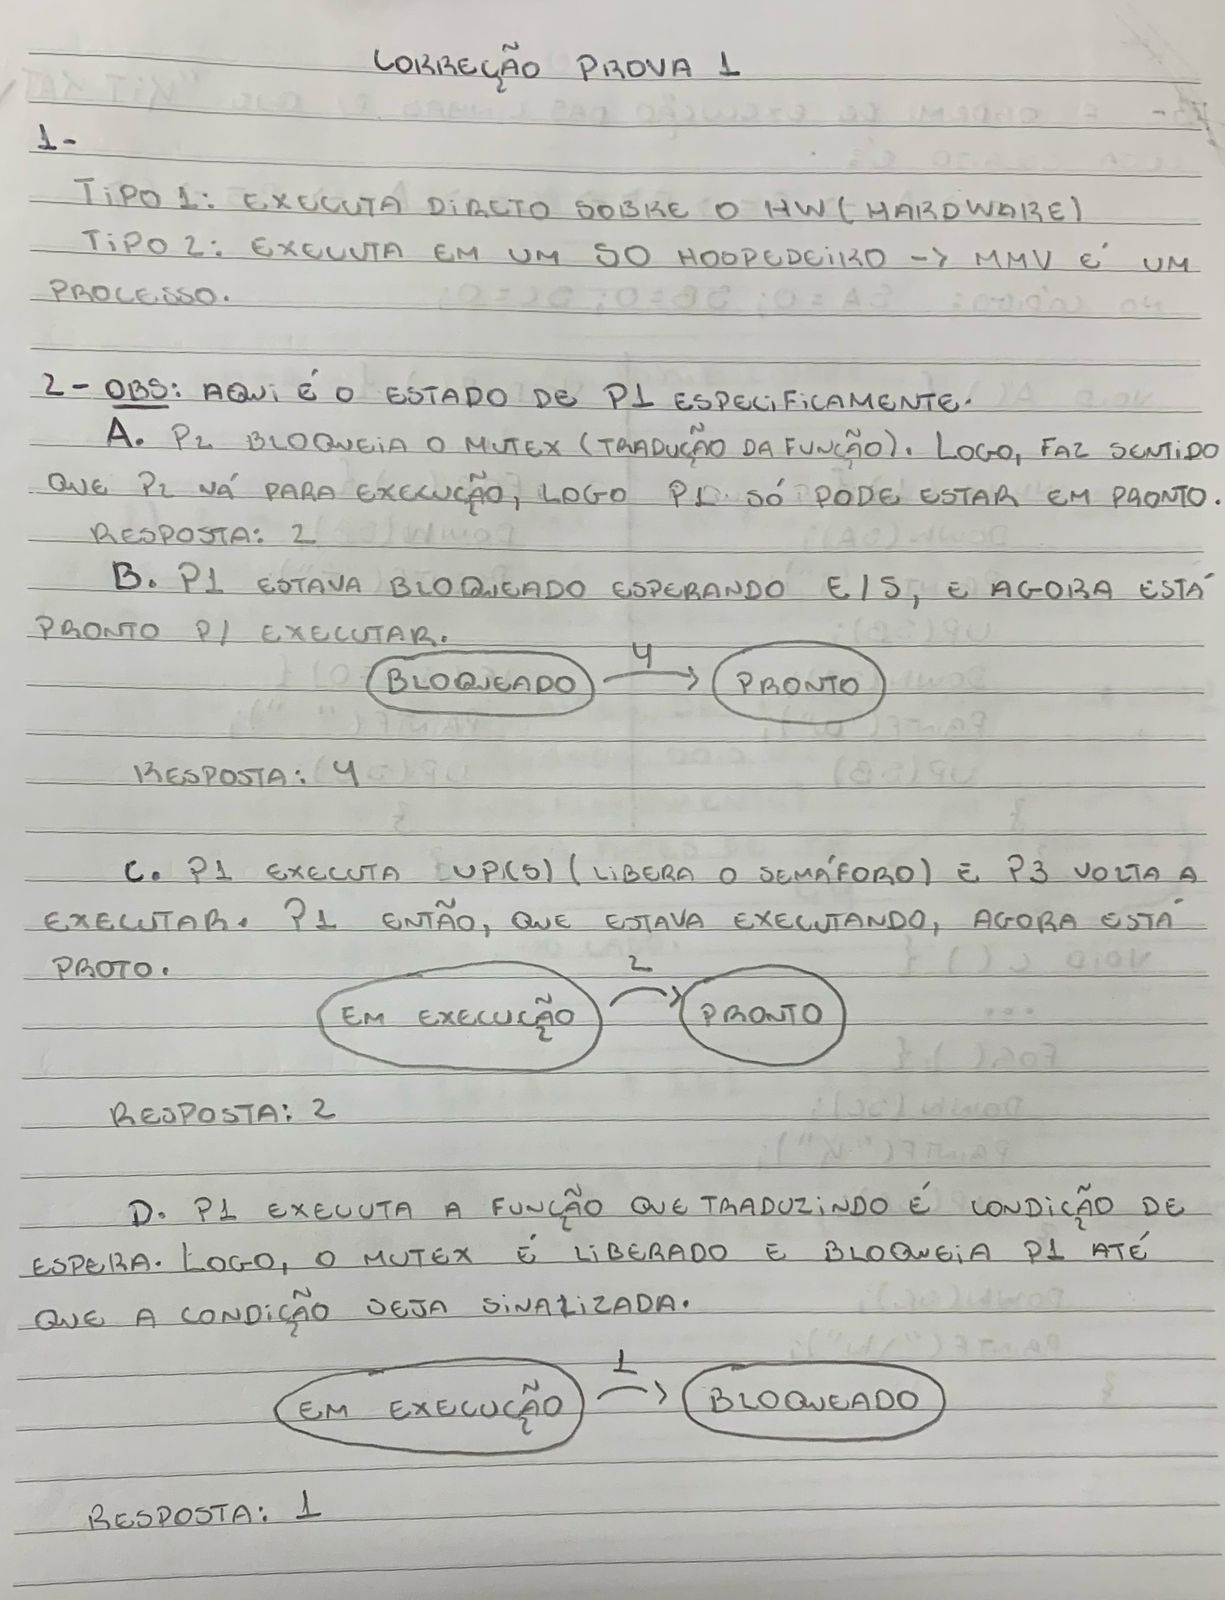
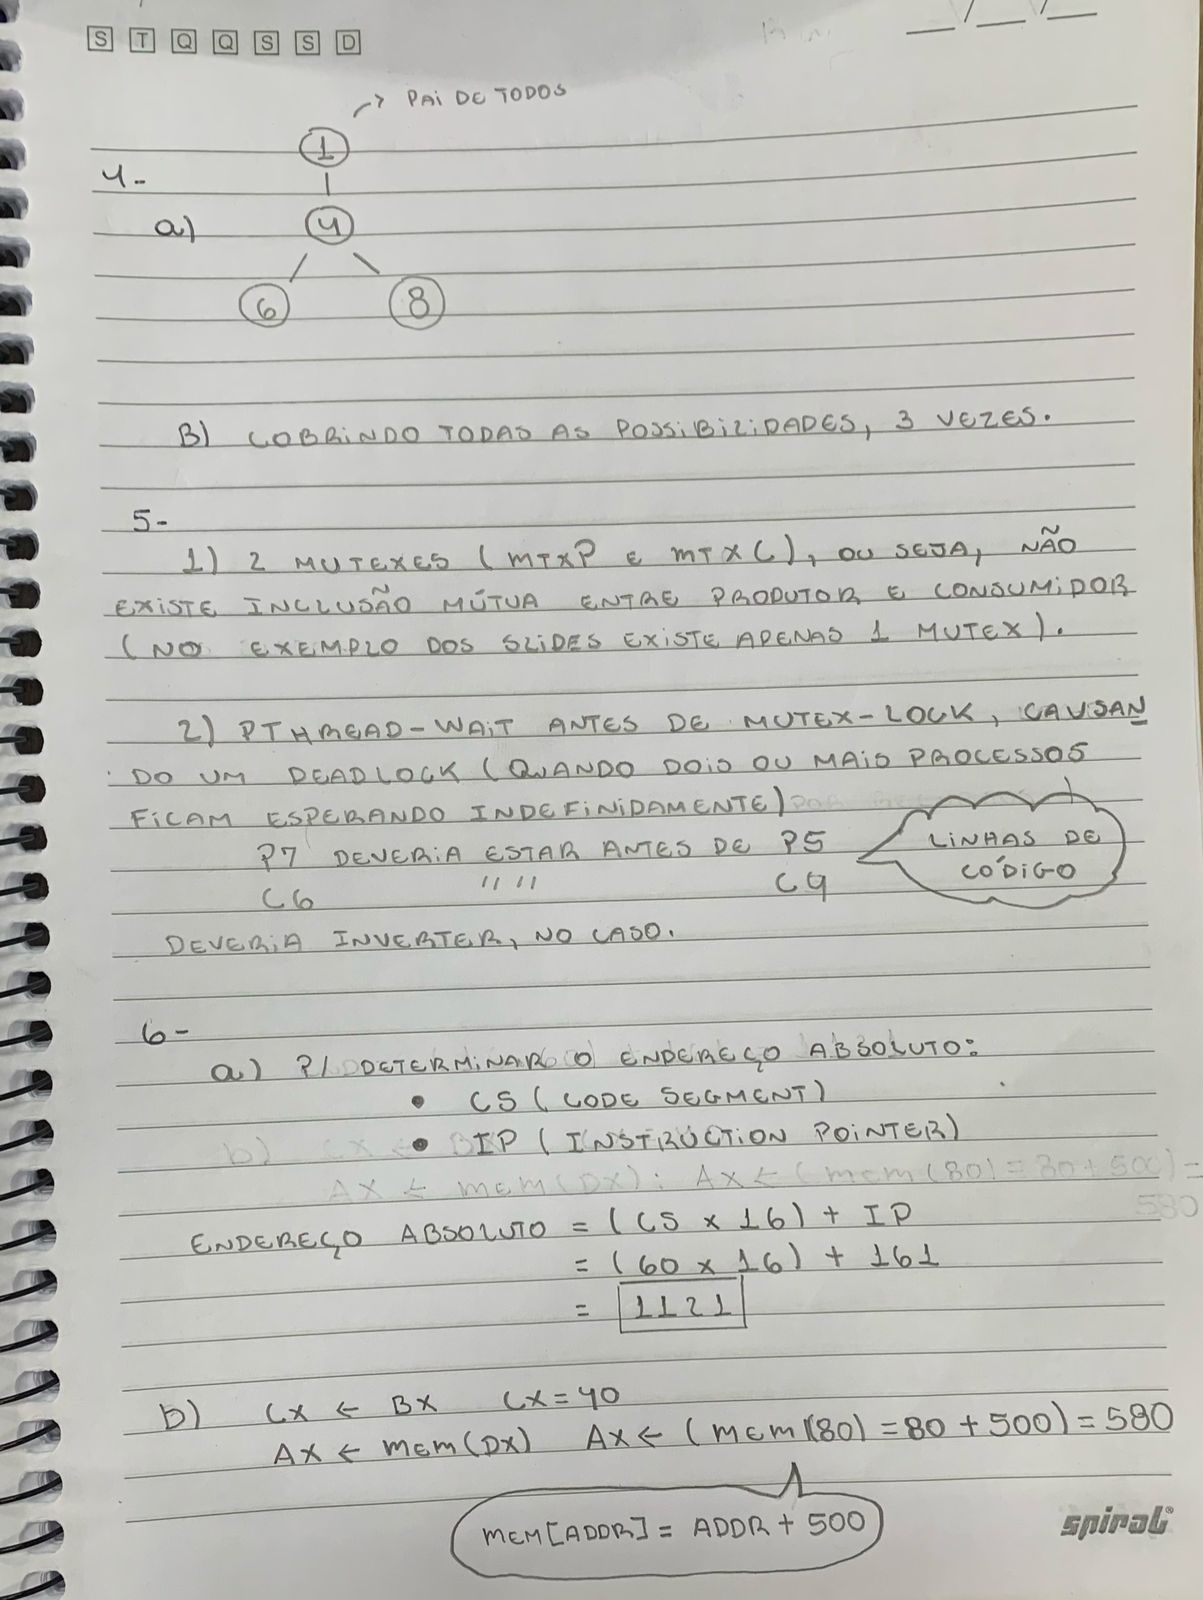
provas sop

Changed region(s): [[0.0, 0.0, 1.0, 1.0], [0.8612, 0.9375, 1.0, 1.0], [0.123, 0.875, 0.1845, 0.9062]]

diff --git a/SOP - Sistemas Operacionais/Diário de classe/pthreads/semafororo-prova1Q3.c b/SOP - Sistemas Operacionais/Diário de classe/pthreads/semafororo-prova1Q3.c
@@ -1,0 +1,73 @@
+#include <stdio.h>
+#include <pthread.h>
+#include <semaphore.h>
+#include <unistd.h>
+
+// Define aliases para ficar mais legível
+#define down(s) sem_wait(&s)
+#define up(s)   sem_post(&s)
+
+// Semáforos
+sem_t sem_R_done;
+sem_t sem_Y_done;
+sem_t sem_Lock;
+
+// Thread que faz a leitura (R)
+void* thread_R(void* arg) {
+    printf("Thread R: realizando leitura...\n");
+    sleep(1); // simula tempo de leitura
+    printf("Thread R: leitura concluída.\n");
+    up(sem_R_done);  // Sinaliza que a leitura foi feita
+    return NULL;
+}
+
+// Thread que espera uma condição (Y)
+void* thread_Y(void* arg) {
+    printf("Thread Y: aguardando condição externa...\n");
+    sleep(2); // simula tempo de espera
+    printf("Thread Y: condição satisfeita.\n");
+    up(sem_Y_done);  // Sinaliza que a condição foi satisfeita
+    return NULL;
+}
+
+// Thread que realiza ação crítica (L), mas só depois de R e Y
+void* thread_L(void* arg) {
+    printf("Thread L: aguardando leitura (R) e condição (Y)...\n");
+
+    down(sem_R_done);  // Espera a leitura
+    down(sem_Y_done);  // Espera a condição
+
+    down(sem_Lock);    // Entra na seção crítica
+    printf("Thread L: executando ação crítica (L)...\n");
+    sleep(2);          // Simula trabalho
+    printf("Thread L: ação crítica finalizada.\n");
+    up(sem_Lock);      // Sai da seção crítica
+
+    return NULL;
+}
+
+int main() {
+    pthread_t tR, tY, tL;
+
+    // Inicializa os semáforos
+    sem_init(&sem_R_done, 0, 0);
+    sem_init(&sem_Y_done, 0, 0);
+    sem_init(&sem_Lock,    0, 1);  // Lock começa liberado
+
+    // Cria as threads
+    pthread_create(&tR, NULL, thread_R, NULL);
+    pthread_create(&tY, NULL, thread_Y, NULL);
+    pthread_create(&tL, NULL, thread_L, NULL);
+
+    // Aguarda término das threads
+    pthread_join(tR, NULL);
+    pthread_join(tY, NULL);
+    pthread_join(tL, NULL);
+
+    // Destrói os semáforos
+    sem_destroy(&sem_R_done);
+    sem_destroy(&sem_Y_done);
+    sem_destroy(&sem_Lock);
+
+    return 0;
+}
